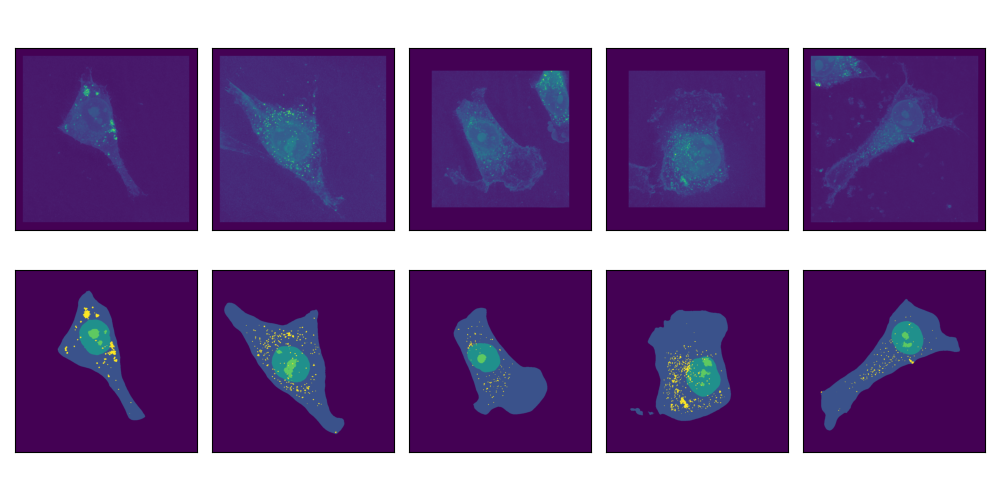
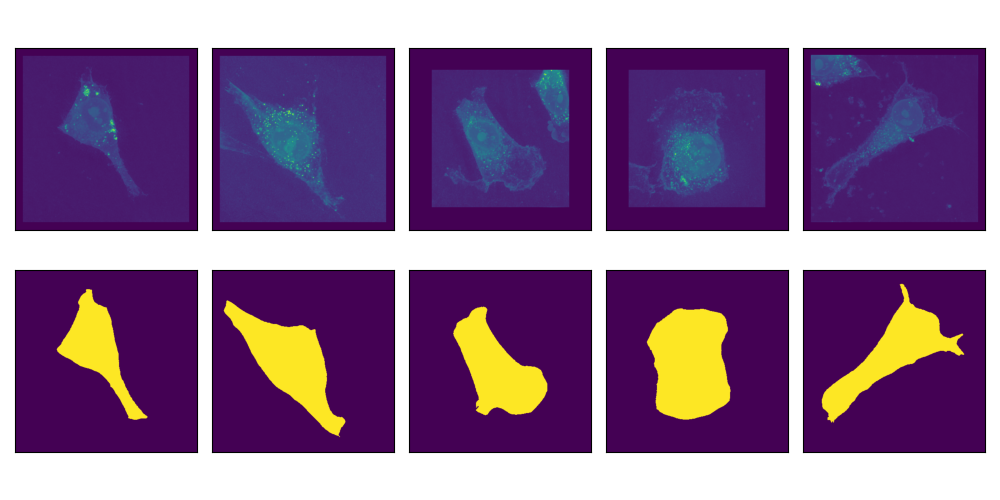
final codes

diff --git a/qpi_seg/cellpose_pretrained_eval.py b/qpi_seg/cellpose_pretrained_eval.py
@@ -23,6 +23,7 @@ val_image_files=os.listdir(image_folder)
 
 #val_image_files=['','','','','']
 
+
 val_images=[tifffile.imread(os.path.join(image_folder, file)) for file in val_image_files[:5]]
 
 out_file_name_stems=[os.path.splitext(file)[0]+'_cp_masks.tiff'for file in val_image_files[:5]]
@@ -41,13 +42,13 @@ test_masks_resized=[resize(image, (836,836),preserve_range=True,order=0) for ima
 out_file_name_masks=[os.path.join(output_mask_folder, file) for file in out_file_name_stems]
 
 for i in range(len(out_file_name_masks)):
-    tifffile.imwrite(
+   tifffile.imwrite(
         out_file_name_masks[i],
         test_masks_resized[i]
     )
 
 #for visualiing first five masks
-#import qpi_seg.plot_grids as pg
-#val_image_resized_5=val_image_resized[0:5]
-#test_masks=test_masks_output[0:5]
-#pg.plot_grids(val_image_resized,test_masks)
+import qpi_seg.plot_grids as pg
+val_image_resized_5=val_image_resized[0:5]
+test_masks=test_masks_output[0:5]
+pg.plot_grids(val_image_resized,test_masks)